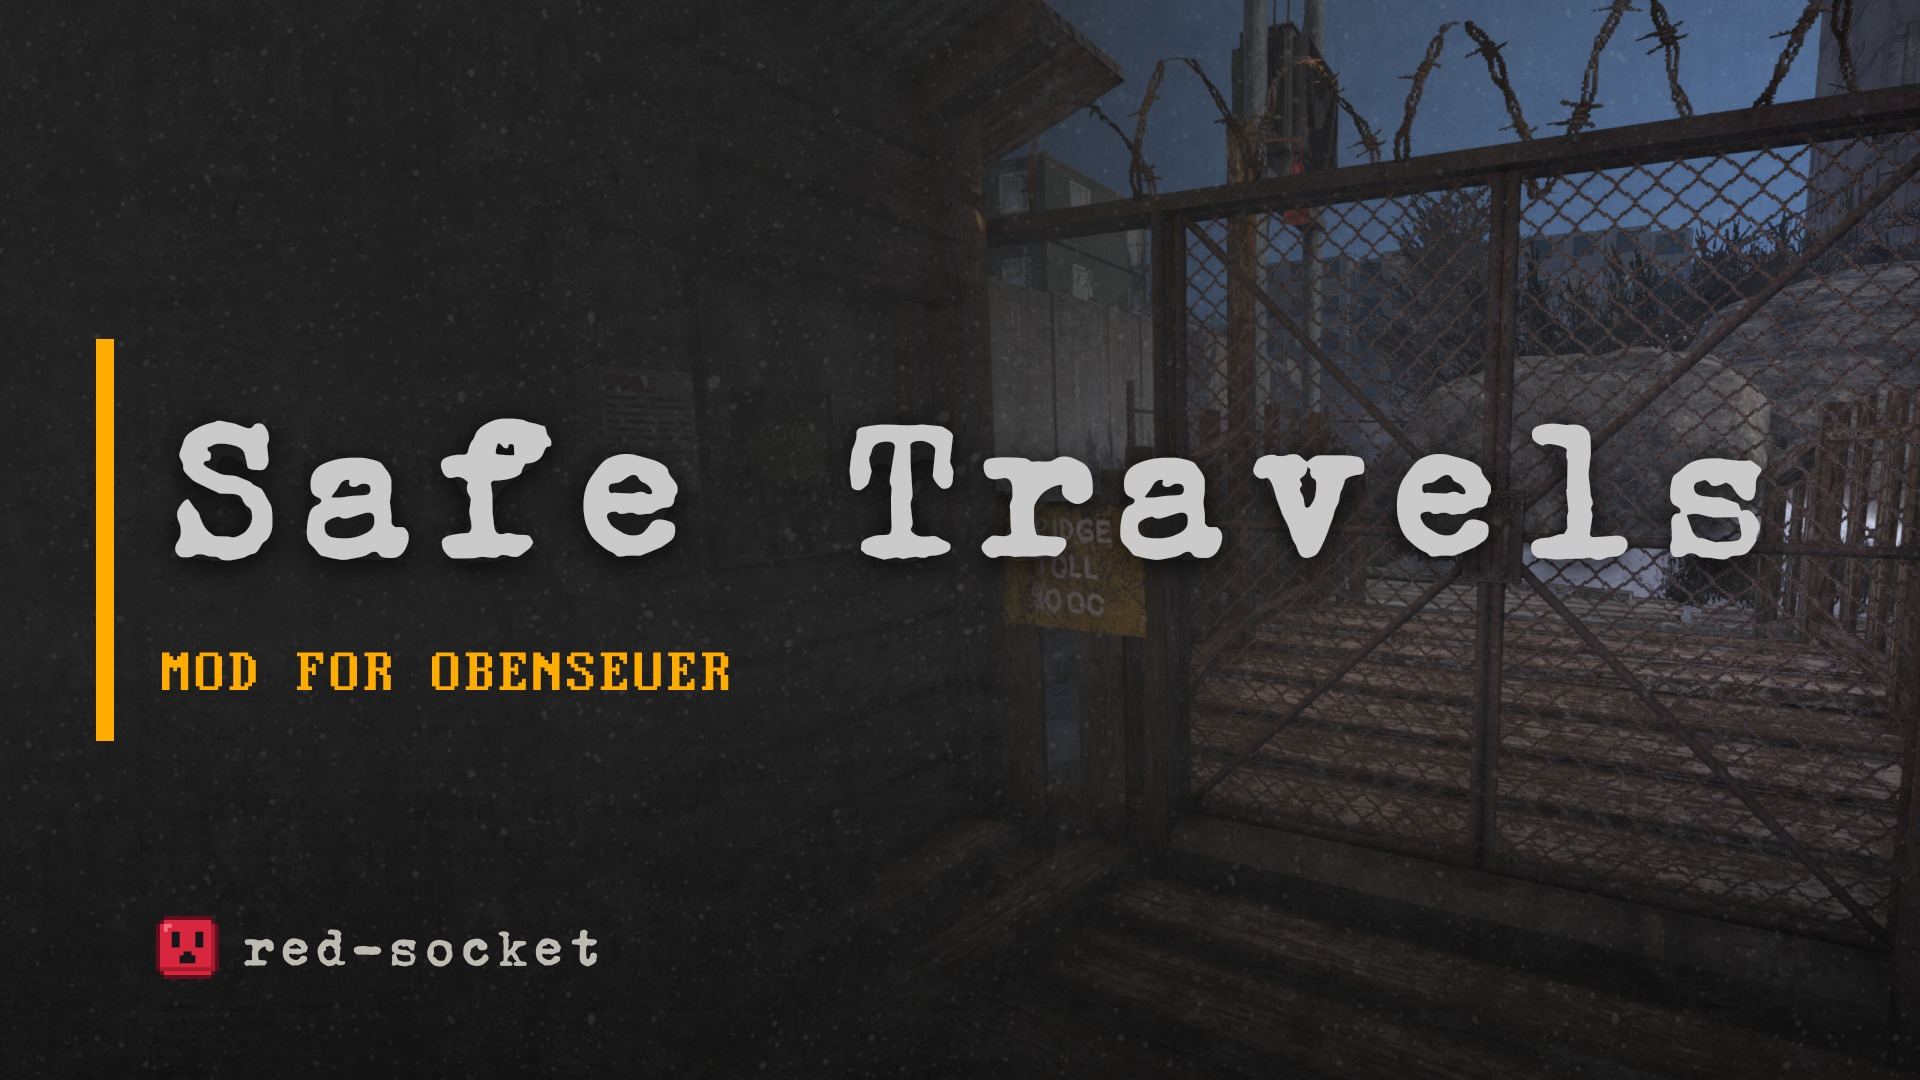
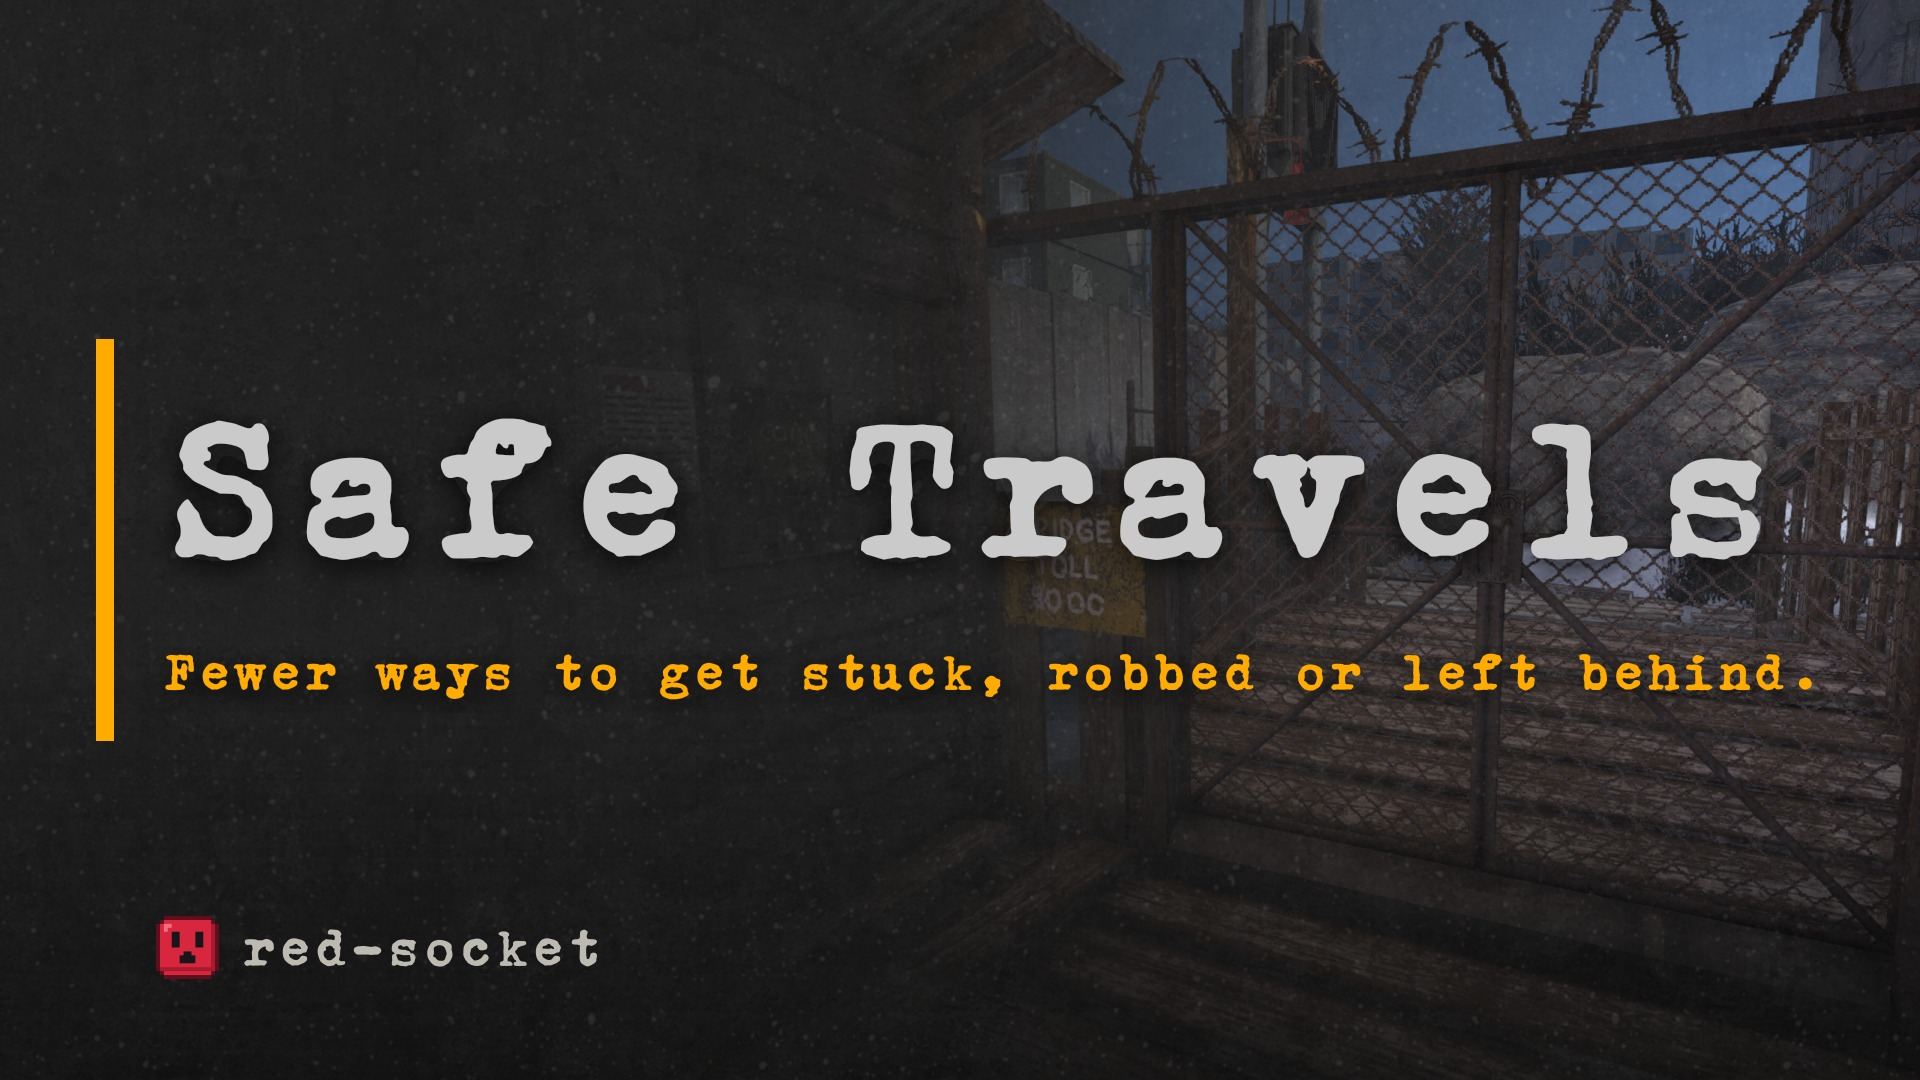
repo: show each mod's tagline on Nexus thumbnails instead of MOD FOR OBENSEUER
Adds render.py --header-shot for a header-only crop of the key shot.
Re-renders the thumbnails of every mod with finished images.

Changed region(s): [[0.0625, 0.5806, 0.9375, 0.6417]]

diff --git a/art/render.py b/art/render.py
@@ -133,6 +133,7 @@ def main():
                     help="a screenshot and its caption; repeat for each gallery image (the first also "
                          "backs the header and thumbnail)")
     ap.add_argument("--key-shot", metavar="IMAGE", help="screenshot for header and thumbnail (default: first --shot)")
+    ap.add_argument("--header-shot", metavar="IMAGE", help="a different crop for the header only (default: --key-shot)")
     ap.add_argument("--mod-dir", help="folder under mods/ (default: name without spaces)")
     ap.add_argument("--out", help="output folder (default: mods/<ModDir>/art/nexus)")
     args = ap.parse_args()
@@ -144,7 +145,8 @@ def main():
     os.makedirs(out, exist_ok=True)
     shots = args.shot or [(PLACEHOLDER_SHOT, "Screenshot caption goes here.")]
     key_shot = args.key_shot or shots[0][0]
-    for path, _ in shots + [(key_shot, "")]:
+    header_shot = args.header_shot or key_shot
+    for path, _ in shots + [(key_shot, ""), (header_shot, "")]:
         if not os.path.isfile(path):
             sys.exit(f"no such image: {path}")
     if not args.shot:
@@ -156,7 +158,7 @@ def main():
     with tempfile.TemporaryDirectory(prefix="rs-render-") as tmp:
         write_fontconfig(tmp)
         values = {"title": args.name, "tagline": args.tagline}
-        export(fill(tpl("header.svg"), values, key_shot, tmp, warn), os.path.join(out, "header.jpg"), "header", tmp, warn)
+        export(fill(tpl("header.svg"), values, header_shot, tmp, warn), os.path.join(out, "header.jpg"), "header", tmp, warn)
         export(fill(tpl("thumbnail.svg"), values, key_shot, tmp, warn), os.path.join(out, "thumbnail.jpg"), "thumbnail", tmp, warn)
         for i, (path, caption) in enumerate(shots, 1):
             v = dict(values, caption=caption, index=f"{i:02d}")

diff --git a/art/STYLE.md b/art/STYLE.md
@@ -61,7 +61,7 @@ Only two fonts, both shipped with the game (`AssetRipper/ExportedAssets/Assets/F
 | Font | Role | Sizes (at 1920 px wide) | Notes |
 |---|---|---|---|
 | **Erika Ormig** | Mod name, taglines, captions, wordmark | Title 96–150 px; tagline 32–40 px; caption 26–38 px | The game's menu typewriter face. Monospaced (advance 0.6025 em), so a line's width is `0.6025 × size × characters`. Sentence case for names ("Better Hunger"), sentence with full stop for captions. |
-| **Perfect DOS VGA 437** | Kickers and technical labels: `MOD FOR OBENSEUER`, version and compatibility lines | 24–40 px | ALL CAPS, the game's terminal font. Code page 437: no `·`, `№` or curly quotes; use `/` and `-` as separators. In SVG, quote the name (`font-family="&apos;Perfect DOS VGA 437&apos;"`) because it ends in a number. |
+| **Perfect DOS VGA 437** | Kickers and technical labels: version and compatibility lines, settings-card labels | 24–40 px | ALL CAPS, the game's terminal font. Code page 437: no `·`, `№` or curly quotes; use `/` and `-` as separators. In SVG, quote the name (`font-family="&apos;Perfect DOS VGA 437&apos;"`) because it ends in a number. |
 
 Don't use faux bold, italics, letter-spacing, outlines or condensing. Titles get a soft drop shadow (`#0e0e0e`, 90 %, blur 10) only where they overlap a screenshot.
 
@@ -106,7 +106,7 @@ The SVG's `viewBox` is 1280×720 and it exports at 1.5×. The numbers below are 
 |  64 safe                                     screenshot →  |
 |  |█ (amber rule 12×268 at x=64, y=226)                     |
 |  |█  Example Mod          ← Erika 150 (fit 1112 px, ≥72)   |  baseline 372
-|  |█  MOD FOR OBENSEUER    ← DOS 40 amber                   |  baseline 460
+|  |█  Tagline.             ← Erika 40 amber (fit 1108, ≥28) |  baseline 460
 |                                                            |
 |  [logo] red-socket        ← logo 64 px + Erika 40          |  y 611–654
 +------------------------------------------------------------+  720
@@ -115,6 +115,8 @@ The SVG's `viewBox` is 1280×720 and it exports at 1.5×. The numbers below are 
 
 - Safe area: 64 grid units all round. Must stay readable at 336×189, the Nexus tile: check with `magick thumbnail.jpg -resize 336x small.png`.
 - Mod names up to about 25 characters fit on one line at the 72 px minimum. Longer names: shorten (CLAUDE.md asks for short names anyway).
+- Under the title goes the mod's tagline (the same line as the header), not a generic kicker: it says what the mod does on the Nexus tile. Up to about 46 characters at full size; longer ones shrink to the 28 px floor (about 66 characters). Changed from the `MOD FOR OBENSEUER` kicker on 2026-11-17 at the user's request.
+- When the thumbnail's text and the header's middle band want different crops of the key shot, pass the header's crop with `render.py --header-shot` (Time Keeper does).
 
 ### Gallery frame: `templates/gallery.svg`, 1920×1080 (16:9)
 
